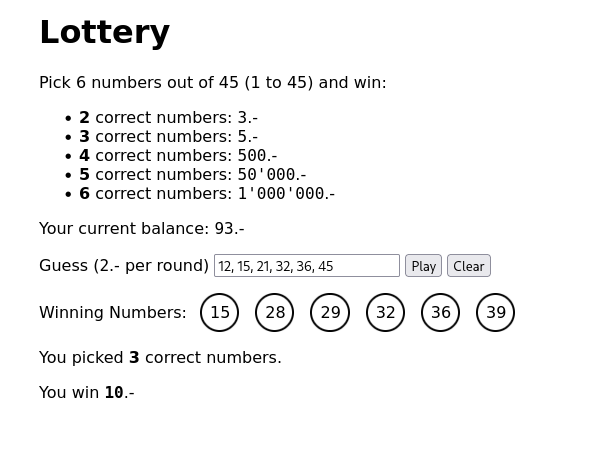
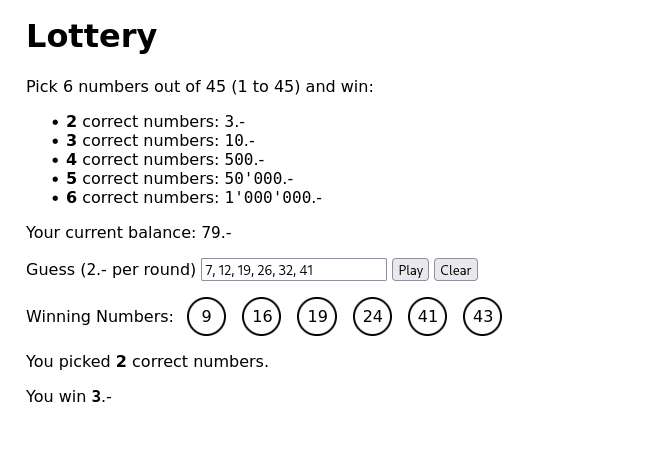
fixed winning amounts

diff --git a/lottery.html b/lottery.html
@@ -11,7 +11,7 @@
         <p>Pick 6 numbers out of 45 (1 to 45) and win:</p>
         <ul>
             <li><strong>2</strong> correct numbers: <span class="currency">3</span>.-</li>
-            <li><strong>3</strong> correct numbers: <span class="currency">5</span>.-</li>
+            <li><strong>3</strong> correct numbers: <span class="currency">10</span>.-</li>
             <li><strong>4</strong> correct numbers: <span class="currency">500</span>.-</li>
             <li><strong>5</strong> correct numbers: <span class="currency">50'000</span>.-</li>
             <li><strong>6</strong> correct numbers: <span class="currency">1'000'000</span>.-</li>
